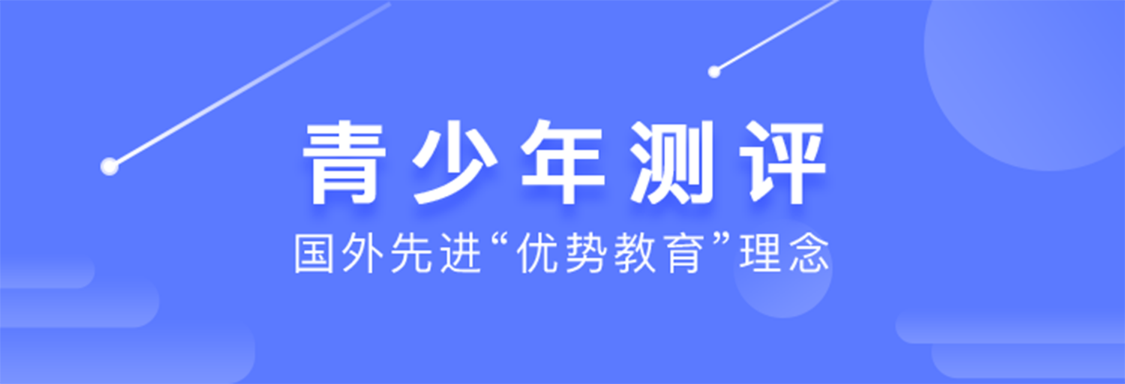
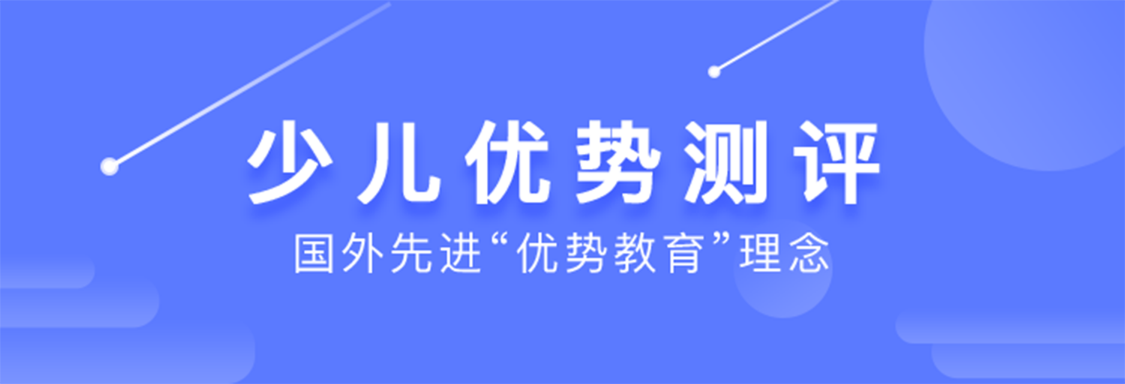
update

Changed region(s): [[0.2178, 0.3125, 0.7778, 0.5312]]

diff --git a/src/pages/evaluationReport/detail.vue b/src/pages/evaluationReport/detail.vue
@@ -3,7 +3,7 @@
     <div class="title_bg"></div>
     <div class="content">
       <div class="container">
-        <p class="result">青少年测评结果查询</p>
+        <p class="result">少儿优势测评结果查询</p>
         <span class="name"><span>{{name}}</span>你是这样的独特存在</span>
         <Advantage :themeList = 'themeList'/>
         <Menu />
@@ -38,7 +38,7 @@ export default {
   watch: {
   },
   created () {
-    document.title = '盖洛普优势评测报告'
+    document.title = '少儿优势测评'
   },
   mounted() {
     this.fetchData()

diff --git a/src/pages/evaluationReport/index.vue b/src/pages/evaluationReport/index.vue
@@ -3,7 +3,7 @@
     <div class="title_bg"></div>
     <div class="content">
       <div class="container">
-        <p class="result">青少年测评结果查询</p>
+        <p class="result">少儿优势测评结果查询</p>
         <span class="name"><span>{{name}}</span>你是这样的独特存在</span>
         <div class="advantage">
           <div class="bg">

diff --git a/src/pages/prepare/index.vue b/src/pages/prepare/index.vue
@@ -155,7 +155,7 @@
     </div>
     <div class="wrapper">
       <div class="pre-header">
-        <h3 class="pre-title">青少年测试</h3>
+        <h3 class="pre-title">少儿优势测评</h3>
         <p class="pre-subtext">
           我们需要收集您和孩子的相关信息，用于后期获取完整报告的凭证
         </p>

diff --git a/src/pages/main/index.vue b/src/pages/main/index.vue
@@ -83,7 +83,7 @@ export default {
     }
   },
   created () {
-    document.title = '盖洛普青少年测评'
+    document.title = '少儿优势测评'
     this.getList().then((data) => {
       if (data.code === 0) {
         this.isLogin = true

diff --git a/src/pages/reports/index.vue b/src/pages/reports/index.vue
@@ -92,7 +92,7 @@ export default {
     }
   },
   created () {
-    document.title = '盖洛普青少年测评结果查询'
+    document.title = '少儿优势测评'
 
 
 
